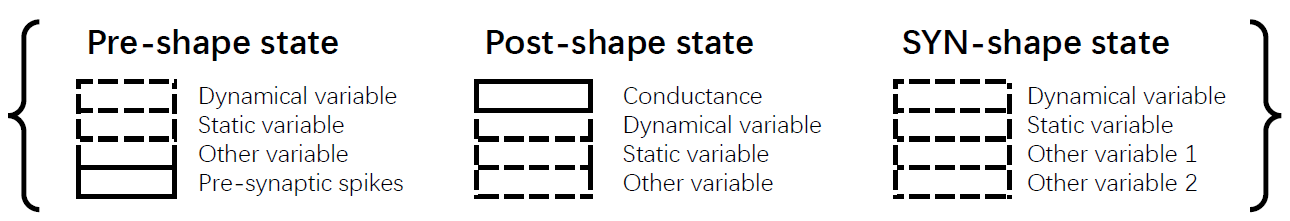
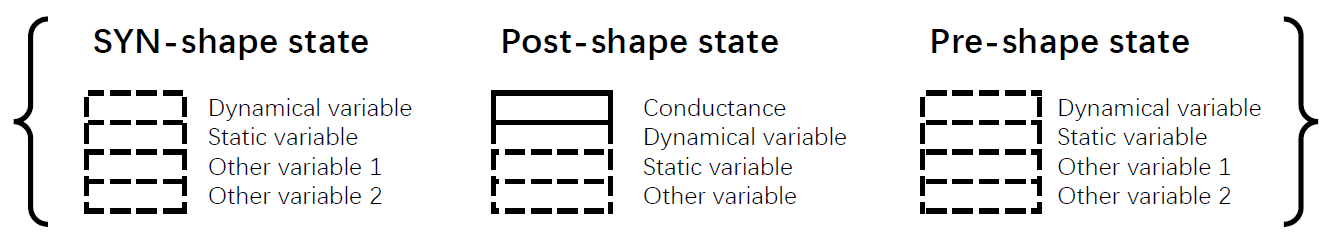
update doc by changed API

diff --git a/npbrain/core/neuron.py b/npbrain/core/neuron.py
@@ -5,6 +5,7 @@ import numpy as np
 from npbrain.utils import helper
 
 __all__ = [
+    'judge_spike',
     'get_spike_judger',
     'initial_neu_state',
     'format_geometry',

diff --git a/npbrain/utils/helper.py b/npbrain/utils/helper.py
@@ -26,6 +26,7 @@ __all__ = [
     'ddict',
 
     # 'others'
+    'clip',
     'get_clip'
 ]
 

diff --git a/docs/guides/synapses.rst b/docs/guides/synapses.rst
@@ -29,25 +29,25 @@ dynamical variables, the static variables and others.
 
     Figure 1. The state in a synapses model. 
 
-1. The first state matrix with the shape of :math:`(L1, num\_pre)` represents 
-   the state variables with the length of :math:`num\_pre` (see Figure 1, 
-   `Pre-shape state`), for example, the pre-synaptic spikes, or the pre-synaptic 
-   membrane potentials. The last array is fixed to receive the pre-synaptic 
-   spikes (the box with the solid lines). Other rows are free for users to 
-   define other variables.
+1. The first state matrix with the shape of :math:`(L1, num\_syn)` is the state
+   represents synapse-shaped variables. Each array has the length of
+   :math:`num\_syn`. This matrix is created according to the user demands.
 2. The second state matrix with the shape of :math:`(L2, num\_post)` denotes the 
    collection of the state variables with the length of :math:`num\_post` (see 
    Figure 1, `Post-shape state`), for example, the delayed conductance which 
    going to deliver to the post-synaptic neurons, or the post-synaptic membrane 
    potentials. In NumpyBrain, the first :math:`delay\_length` arrays are used to
    constain the delayed conductance. 
-3. The third state matrix with the shape of :math:`(L3, num\_syn)` is the state 
-   represents synapse-shaped variables. Each array has the length of 
-   :math:`num\_syn`. This matrix is created according to the user demands.
+3. The third state matrix with the shape of :math:`(L3, num\_pre)` represents
+   the state variables with the length of :math:`num\_pre` (see Figure 1,
+   `Pre-shape state`), for example, the pre-synaptic spikes, or the pre-synaptic
+   membrane potentials. The last array is fixed to receive the pre-synaptic
+   spikes (the box with the solid lines). Other rows are free for users to
+   define other variables.
 
 Here, we sould pay attention on the conductance delays. In order to get the 
 efficient deley computation, we fix the delay matrix (with a dimension of 
-:math:`(delay\_lendth, num\_post)`), and rotate it at each updating time-step
+:math:`(delay\_length, num\_post)`), and rotate it at each updating time-step
 (see Figure 2). In Figure 2, we denote the array position of output conductance 
 as `out`, and the array reveiving the input conductance as `in`. As illustrated, 
 at :math:`t=0`, the conductance `out` delivering to the post-synaptic neurons is 
@@ -73,7 +73,7 @@ model for example,
 
 .. code-block:: python
 
-    var2index = {'u': (2, 0), 'x': (2, 1)}
+    var2index = {'u': (0, 0), 'x': (0, 1)}
 
 represents the variable :math:`x` and the utilization parameter :math:`u` is stored
 at first and second row in the third matrix `state[2]`, respectively.
@@ -96,41 +96,39 @@ update_state()
 ``update_state()`` is a must defined function to update `synapses` model's state.
 It is written according to synapse dynamics.
 
+.. code-block:: python
+
+    def update_state(syn_state, t, delay_idx, pre_state, post_state):
+        do_something ...
+
+where `delay_idx` is the position of delayed conductance to append.
+`delay_idx` is automatically computed by the framework. Users can use it
+directly to compute synaptic values.
+
 
 output_synapse()
 ****************
 
-``output_synapse()`` function must be defined to output the computed synaptic values.  
-It is an interface between `synapses` and the `post-synaptic neurons`. 
-
-The default `output_synapse()` function is to add the delayed `conductance` (here 
-is the current) to the `state` position of `post-synaptic neurons` which receives 
-the synaptic inputs, i.e.,
+``output_synapse()`` function must be defined to output the computed synaptic values.
 
 .. code-block:: python
 
-    neu_state[-1] += syn_state[output_idx[0]][output_idx[1]]
-
-where `neu_state[-1]` is the neuron array receiving the synaptic input, 
-and `output_idx` is the position of output conductance in the synapse state. 
+    def output_synapse(syn_state, output_idx, pre_state, post_state):
+        do_something ...
 
 
-collect_spike()
-***************
-
-``collect_spike()`` function must be defined to collect spikes from the pre-synaptic 
-and post-synaptic neurons. It is also an interface, which guarantee the `synapses` 
-model is an independent component. 
-
-The default `collect_spike()` function is to collect the spiking state of 
-pre-synaptic neurons to the `pre-shaped state`, i.e.,
+For example, for a `VoltageJumpSynapse`, where the delayed `conductance` (here
+is the current) is added to the `state` position of `post-synaptic neurons`
+which receives the synaptic inputs, i.e.,
 
 .. code-block:: python
 
-    syn_state[0][-1] = pre_neu_state[-3]
+    def output_synapse(syn_state, output_idx, pre_state, post_state):
+        post_state[-1] += syn_state[1][output_idx]
 
-where `syn_state[0][-1]` is the fixed synapse array to receive pre-synaptic spikes,
-and `pre_neu_state[-3]` is the spiking state array of pre-synaptic neuron.
+where `post_state[-1]` is the neuron array receiving the synaptic input,
+and `output_idx` is the position of output conductance in the synapse state,
+which is automatically inferred by the framework.
 
 
 Define your own synapse models

diff --git a/docs/guides/neurons.rst b/docs/guides/neurons.rst
@@ -92,8 +92,14 @@ essential for the model state regulation and running.
 update_state()
 **************
 
-``update_state()`` function points out how the neuron model evolves. It is
-written according to the differential equations of the neuron models.
+``update_state()`` function points out how the neuron model evolves.
+
+.. code-block:: python
+
+    def update_state(neu_state, t):
+        do_something ...
+
+It is written according to the differential equations of the neuron models.
 In order to make the numerical integration of differential equations easier,
 NumpyBrain provides a decorator function ``@integrate`` to help construct
 numerical integration functions. The supported integration algorithms please

diff --git a/docs/apis/changelog.rst b/docs/apis/changelog.rst
@@ -1,6 +1,24 @@
 Release notes
 =============
 
+NumpyBrain 0.2.7
+----------------
+
+API changes
+~~~~~~~~~~~
+
+* remove 'collect_spike()' in synapse
+* change the way of synapse conductance index updating
+* support to pre-define numba signatures
+* fix bugs in `utils.Dict()`
+* change profile setting
+
+Models and examples
+~~~~~~~~~~~~~~~~~~~
+
+* add refractory consideration in `AMPA`, `GABA`, `STP`, `GJ` synapses
+* add variable choice to link in `VoltageJumpSynapse`
+
 
 NumpyBrain 0.2.6
 ----------------

diff --git a/docs/apis/utils.rst b/docs/apis/utils.rst
@@ -116,8 +116,6 @@ Helper of functions.
 .. autosummary::
     :toctree: _autosummary
 
-    jit_function
-    jit_lambda
     autojit
     func_copy
 

diff --git a/docs/apis/core.rst b/docs/apis/core.rst
@@ -67,7 +67,6 @@ Synapses
 .. autosummary::
     :toctree: _autosummary
 
-    record_conductance
     format_delay
     initial_syn_state
 
